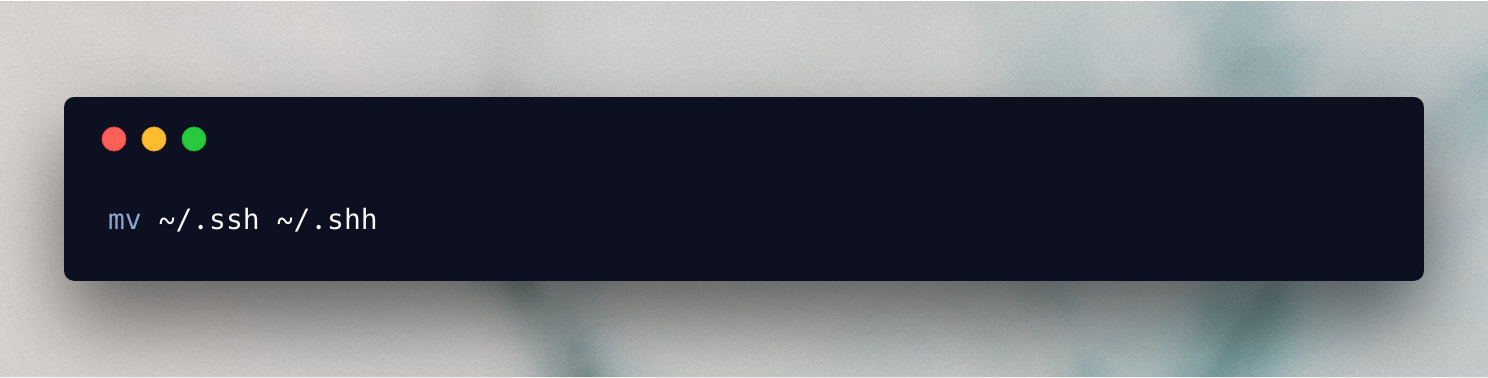
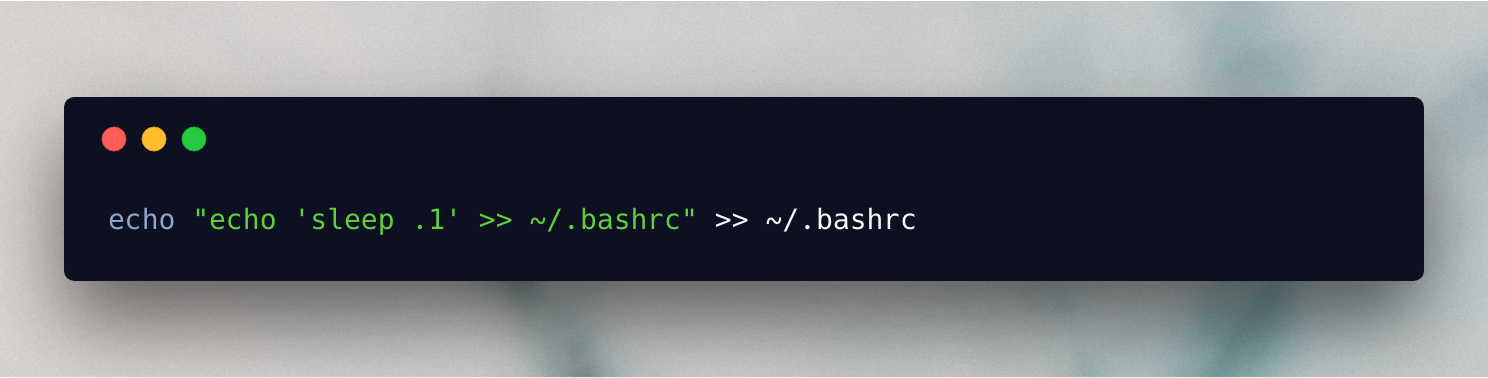
restructured

Changed region(s): [[0.0618, 0.5529, 0.6183, 0.6111]]

diff --git a/README.md b/README.md
@@ -2,9 +2,9 @@
 Here is a list of all my favourite \*nix & Windows pranks.
 
 Table of Contents
-- [1. Change ssh to shh](#1-change-ssh-to-shh)
+- [1. Slow down the terminal](#1-slow-down-the-terminal)
 - [2. Create a `~` folder](#2-create-a--folder)
-- [3. Slow down the terminal](#3-slow-down-the-terminal)
+- [3. Change ssh to shh](#3-change-ssh-to-shh)
 - [4. File names that end with spaces](#4-file-names-that-end-with-spaces)
 - [5. Ssshhh! - macOS only](#5-ssshhh---macos-only)
 - [6. Upside down Windows - Windows Only](#6-upside-down-windows)
@@ -12,13 +12,17 @@ Table of Contents
 - [8. Install sl](#8-install-sl)
 - [9. Make `date` return random dates](#9-make-date-return-random-dates)
 
-## 1. Change ssh to shh
-<!-- ![mv ~/.ssh ~/.shh](./img/1.png) -->
+
+## 1. Slow down the terminal
+
 ![](./img/whitepng/1.png) 
+<!-- ![](./img/3.png) -->
+
 ```
-mv ~/.ssh ~/.shh
+echo "echo 'sleep .1' >> ~/.bashrc" >> ~/.bashrc
 ```
-From this: https://twitter.com/nixcraft/status/1045760653510815744
+
+So a `sleep .1` is added to `~/.bashrc` everytime the user starts a new terminal. So the terminal startup time increases with every use, slowly, but surely.
 
 ## 2. Create a `~` folder
 **Note**: Potentially destructive. Use caution.
@@ -43,16 +47,14 @@ alias cd="mkdir -p '~' && echo "kghkjhlkjh" > ./'~'/1 && cd"
 ```
 Now every directory the user `cd`s into will have a `~` folder.
 
-## 3. Slow down the terminal
-
+## 3. Change ssh to shh
+<!-- ![mv ~/.ssh ~/.shh](./img/1.png) -->
 ![](./img/whitepng/3.png) 
-<!-- ![](./img/3.png) -->
-
 ```
-echo "echo 'sleep .1' >> ~/.bashrc" >> ~/.bashrc
+mv ~/.ssh ~/.shh
 ```
+From this: https://twitter.com/nixcraft/status/1045760653510815744
 
-So a `sleep .1` is added to `~/.bashrc` everytime the user starts a new terminal. So the terminal startup time increases with every use, slowly, but surely.
 
 ## 4. File names that end with spaces
 
